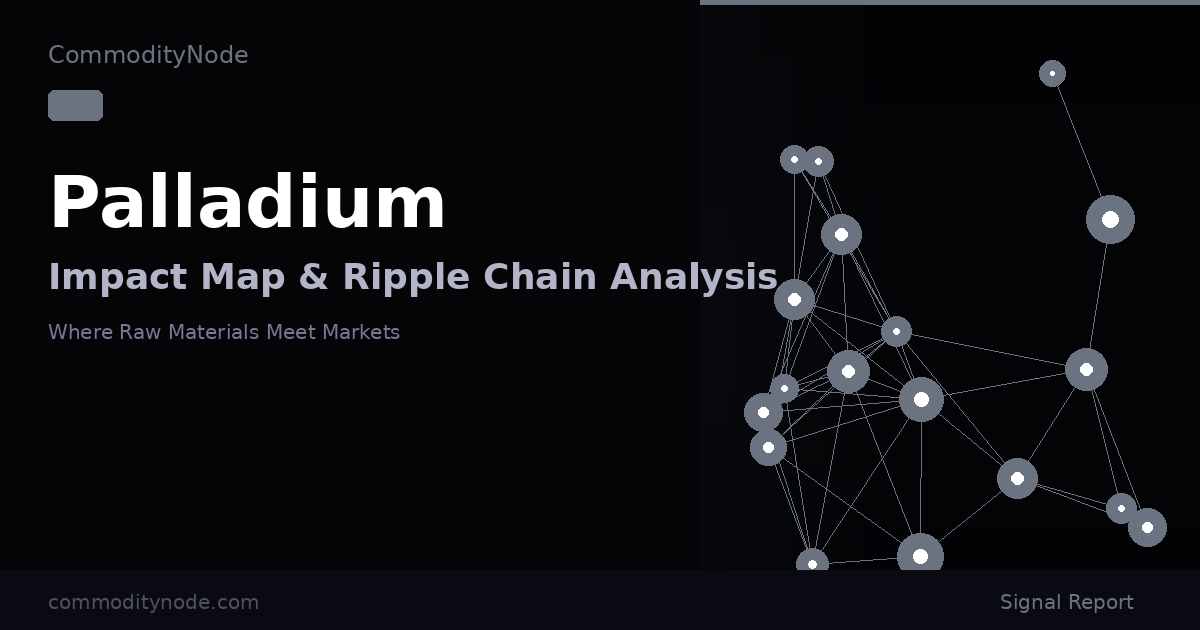
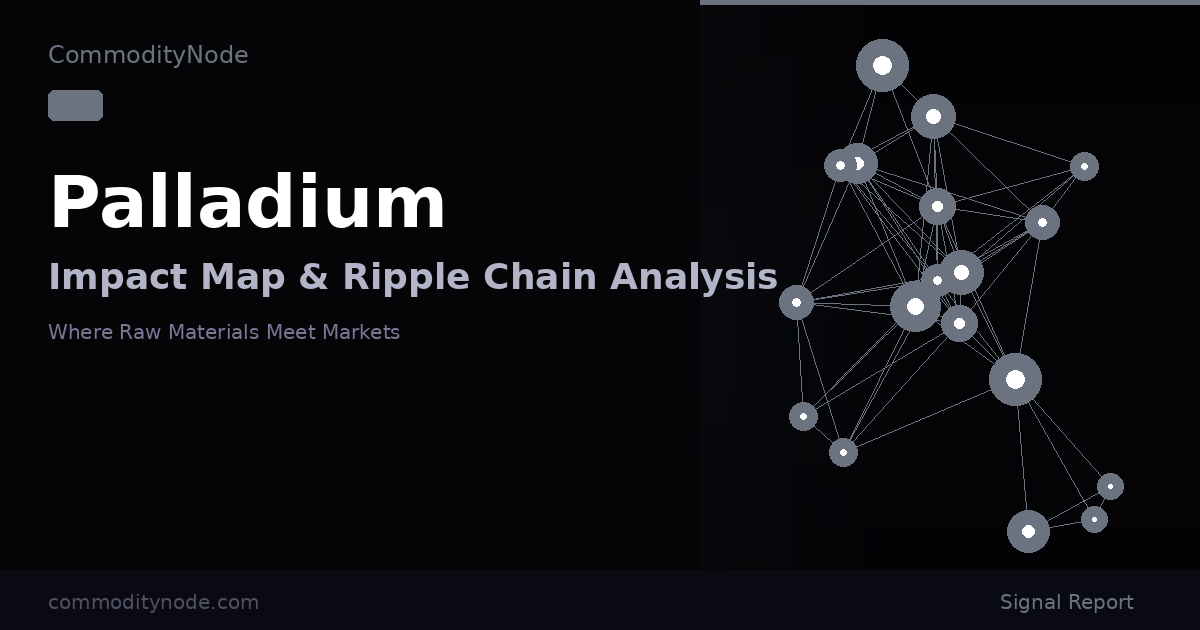
fix: commit pending post updates and OG image regeneration

diff --git a/_posts/2026-03-20-copper-ev-infrastructure-impact.md b/_posts/2026-03-20-copper-ev-infrastructure-impact.md
@@ -7,7 +7,7 @@ tags: [copper, ev, infrastructure, construction, FCX, SCCO]
 description: 'How copper price surges impact Freeport-McMoRan, Southern Copper, EV charging networks, construction, utilities, and renewable energy infrastructure. Full correlation analysis.'
 reading_time: 8
 commodity_name: "Copper"
-image: /assets/images/og-copper-ev-infrastructure-impact.png
+image: /assets/images/og-copper.png
 ---
 
 Copper is often called "Dr. Copper" for its reputation as a barometer of global economic health, but in the current cycle it has taken on a new role: the essential metal of the energy transition. When copper prices push toward $4.25 per pound on the COMEX, the implications extend far beyond traditional mining stocks. Electric vehicles require three to four times more copper than internal combustion engine vehicles, EV charging stations are copper-intensive, and renewable energy installations use five times more copper per megawatt than fossil fuel power plants.

diff --git a/_posts/2026-03-19-silver-solar-electronics-impact.md b/_posts/2026-03-19-silver-solar-electronics-impact.md
@@ -7,7 +7,7 @@ tags: [silver, solar, electronics, precious-metals, SLV, PAAS]
 description: 'How silver price increases impact miners like Pan American Silver and Hecla, solar manufacturers, electronics companies, and SLV ETF. Full supply chain correlation analysis.'
 reading_time: 8
 commodity_name: "Silver"
-image: /assets/images/og-silver-solar-electronics-impact.png
+image: /assets/images/og-silver.png
 ---
 
 Silver occupies a unique position among precious metals as both a monetary asset and a critical industrial input. When silver prices push toward $28.50 per ounce, the effects span an unusually broad set of industries -- from photovoltaic cell manufacturers in China to jewelry retailers in Manhattan and bullion vaults in London. Silver's dual nature as a store of value and an industrial commodity makes its price dynamics more complex than gold and its impact chain more diverse.

diff --git a/_posts/2026-03-20-sugar-ethanol-food-impact.md b/_posts/2026-03-20-sugar-ethanol-food-impact.md
@@ -7,7 +7,7 @@ tags: [sugar, ethanol, food, agriculture, confectionery]
 description: 'How sugar price spikes impact ethanol producers, confectionery giants like Hershey and Mondelez, beverage companies, and global food manufacturers. Full correlation analysis.'
 reading_time: 8
 commodity_name: "Sugar"
-image: /assets/images/og-sugar-ethanol-food-impact.png
+image: /assets/images/og-sugar.png
 ---
 
 Sugar is one of the most politically and economically interconnected commodities on the planet. Traded on the ICE exchange as Sugar No.11, the raw sugar contract reflects a tug-of-war between Brazil's ethanol industry, India's export policies, and the insatiable global appetite for sweetened products. When sugar prices surge toward $0.24 per pound, the ripple effects extend from Sao Paulo ethanol plants to Hershey, Pennsylvania chocolate factories.

diff --git a/_posts/2026-03-21-cocoa-chocolate-confectionery.md b/_posts/2026-03-21-cocoa-chocolate-confectionery.md
@@ -7,7 +7,7 @@ tags: [cocoa, chocolate, confectionery, agriculture, HSY, MDLZ]
 description: 'How cocoa price spikes impact Hershey, Mondelez, Nestle, specialty chocolate makers, and the global confectionery supply chain. Full impact analysis with correlation data.'
 reading_time: 8
 commodity_name: "Cocoa"
-image: /assets/images/og-cocoa-chocolate-confectionery.png
+image: /assets/images/og-cocoa.png
 ---
 
 Cocoa has experienced one of the most dramatic commodity rallies in modern history, with prices surging past $8,500 per metric ton on the ICE exchange. Driven by severe crop disease in West Africa, aging tree stocks, and adverse weather in Ghana and Ivory Coast, the cocoa market has entered uncharted territory. For chocolate and confectionery companies, this is not a temporary disruption -- it is a structural reset of their cost base.

diff --git a/_posts/2026-03-22-cotton-textile-apparel-impact.md b/_posts/2026-03-22-cotton-textile-apparel-impact.md
@@ -7,7 +7,7 @@ tags: [cotton, textile, apparel, agriculture, fashion]
 description: 'How cotton price increases impact Nike, VF Corp, Hanesbrands, apparel retailers, fast fashion, and the global textile supply chain. Full correlation analysis.'
 reading_time: 8
 commodity_name: "Cotton"
-image: /assets/images/og-cotton-textile-apparel-impact.png
+image: /assets/images/og-cotton.png
 ---
 
 Cotton is the backbone of the global apparel industry, and when prices push toward $0.82 per pound on the ICE Cotton No.2 contract, the effects ripple through every level of the fashion supply chain. From vertically integrated textile mills in Bangladesh to branded apparel giants like Nike and VF Corporation, cotton cost movements reshape margins, pricing strategies, and competitive dynamics across the industry.

diff --git a/_posts/2026-03-19-soybeans-livestock-biofuel.md b/_posts/2026-03-19-soybeans-livestock-biofuel.md
@@ -7,7 +7,7 @@ tags: [soybeans, livestock, biofuel, agriculture, ADM, BG, SOYB]
 description: 'How a soybean price surge impacts ADM, Bunge, Tyson Foods, biofuel producers, and food manufacturers. Full supply chain correlation analysis with winners and losers.'
 reading_time: 8
 commodity_name: "Soybeans"
-image: /assets/images/og-soybeans-livestock-biofuel.png
+image: /assets/images/og-soybeans.png
 ---
 
 Soybeans are among the most versatile commodities in global agriculture, serving as a linchpin for animal feed, cooking oil, biofuel feedstock, and processed food ingredients. When soybean prices move sharply, the effects cascade through a remarkably wide network of industries -- from hog farms in Iowa to biodiesel refineries in Brazil and cereal factories in Michigan.
